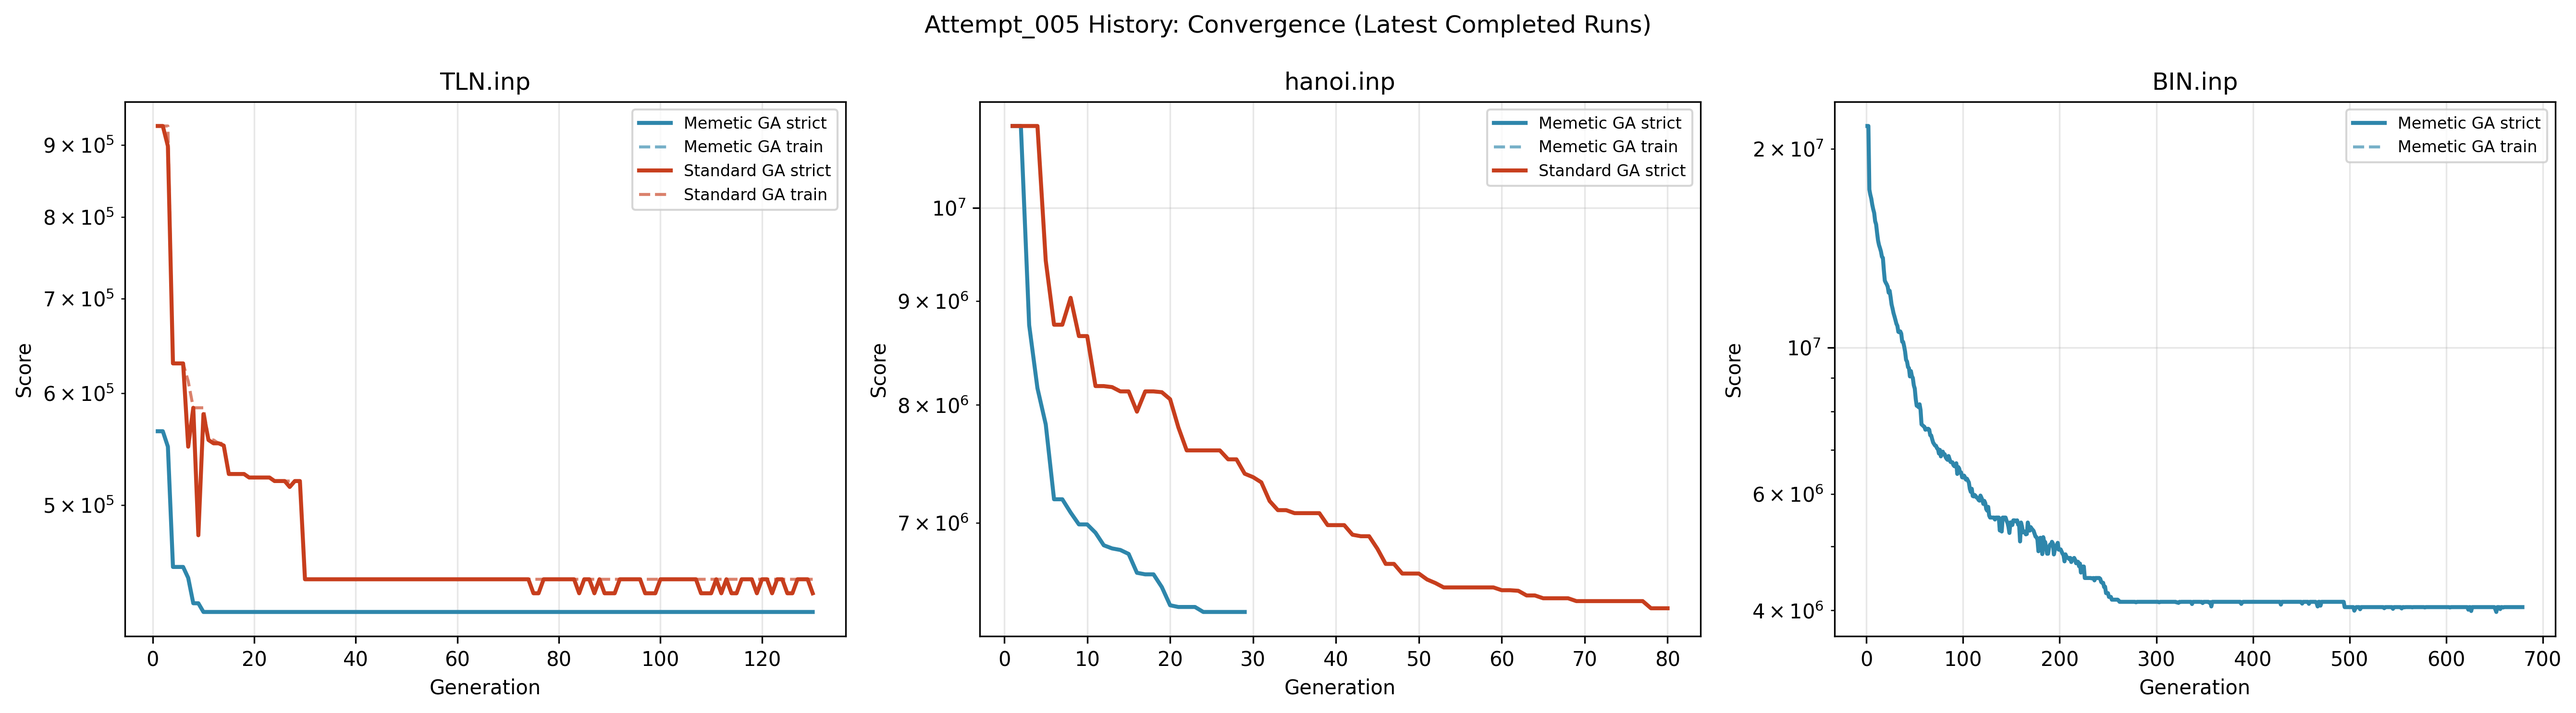
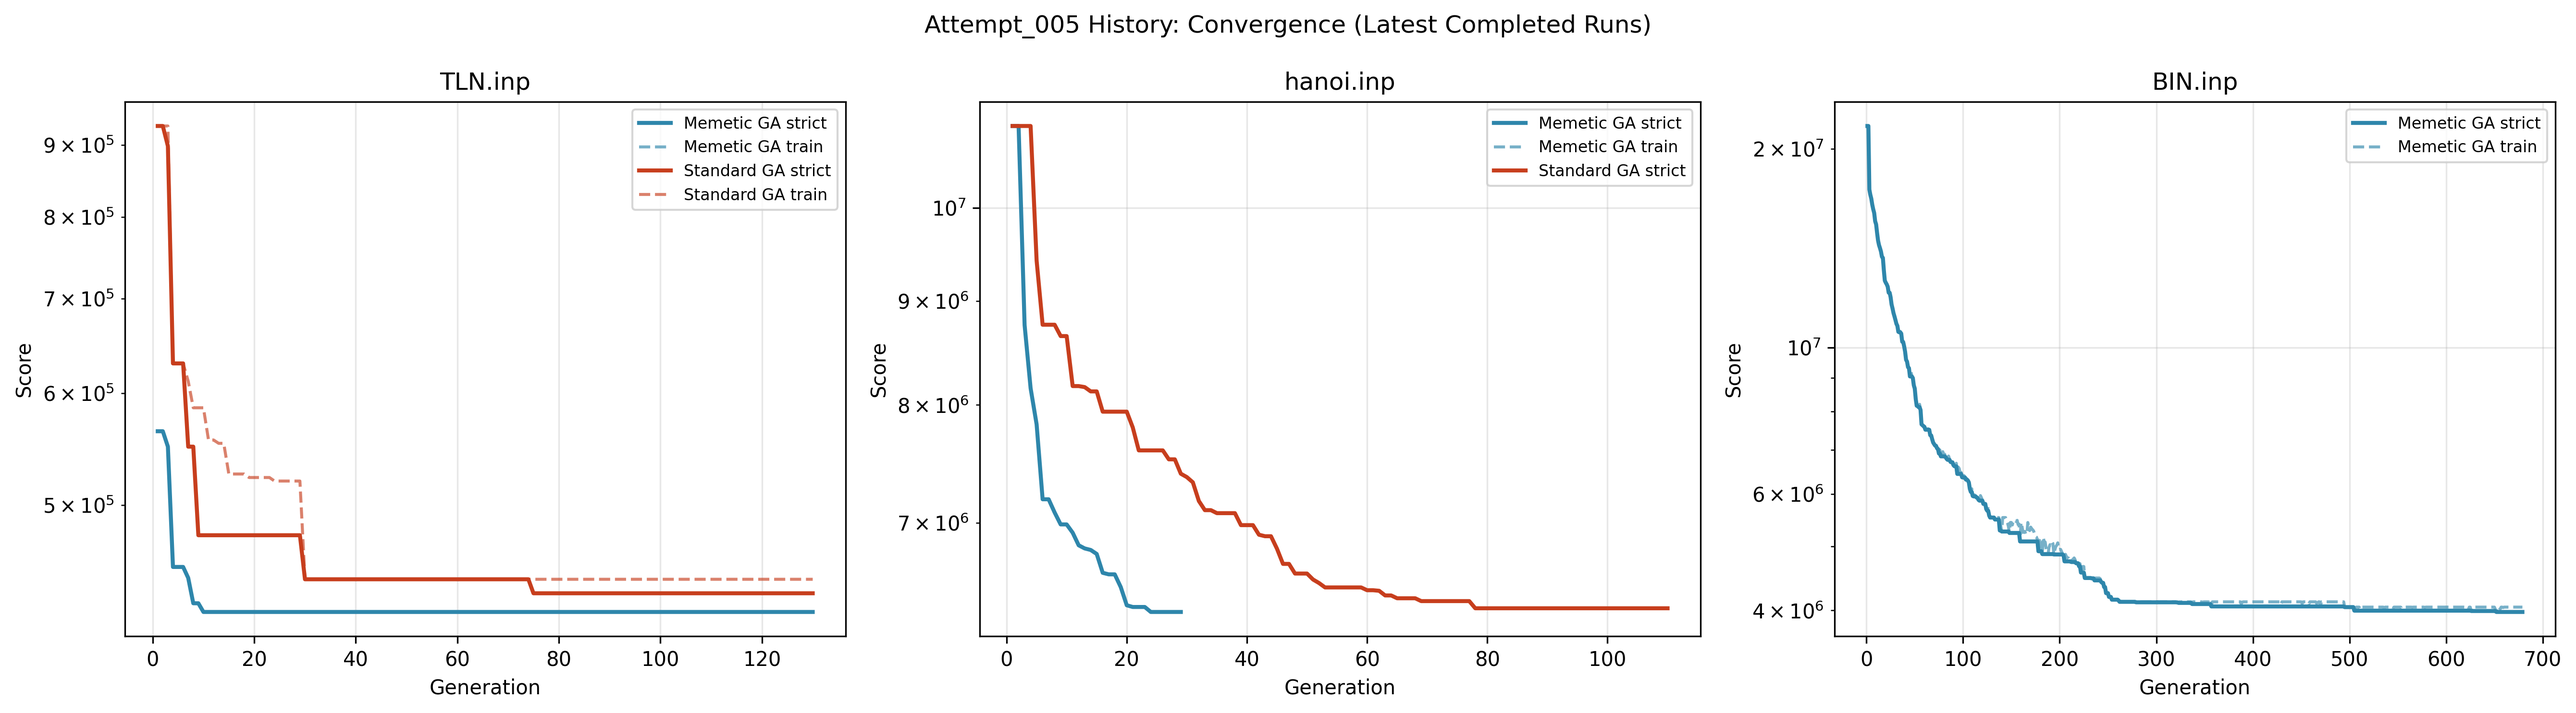
small bug fix in memetic visualizations graphs 2

diff --git a/water-distribution-networks/Memetic_GA/Attempt_005/history_visualizer.py b/water-distribution-networks/Memetic_GA/Attempt_005/history_visualizer.py
@@ -167,7 +167,20 @@ class HistoryVisualizer:
                     continue
                 x = [int(g["generation"]) for g in gens]
                 y_train = np.array([float(g["best_training_fitness"]) for g in gens], dtype=float)
-                y_paper = np.array([float(g["best_paper_score"]) for g in gens], dtype=float)
+
+                # Build strict best-so-far series with carry-forward for non-finite values.
+                best = float("inf")
+                seen_finite = False
+                y_paper = []
+                for g in gens:
+                    raw = g.get("best_paper_score")
+                    if raw is not None and np.isfinite(float(raw)):
+                        val = float(raw)
+                        if val < best:
+                            best = val
+                        seen_finite = True
+                    y_paper.append(best if seen_finite else float("nan"))
+                y_paper = np.array(y_paper, dtype=float)
 
                 # Mask non-finite values so lines break instead of exploding the scale.
                 y_train[~np.isfinite(y_train)] = np.nan
